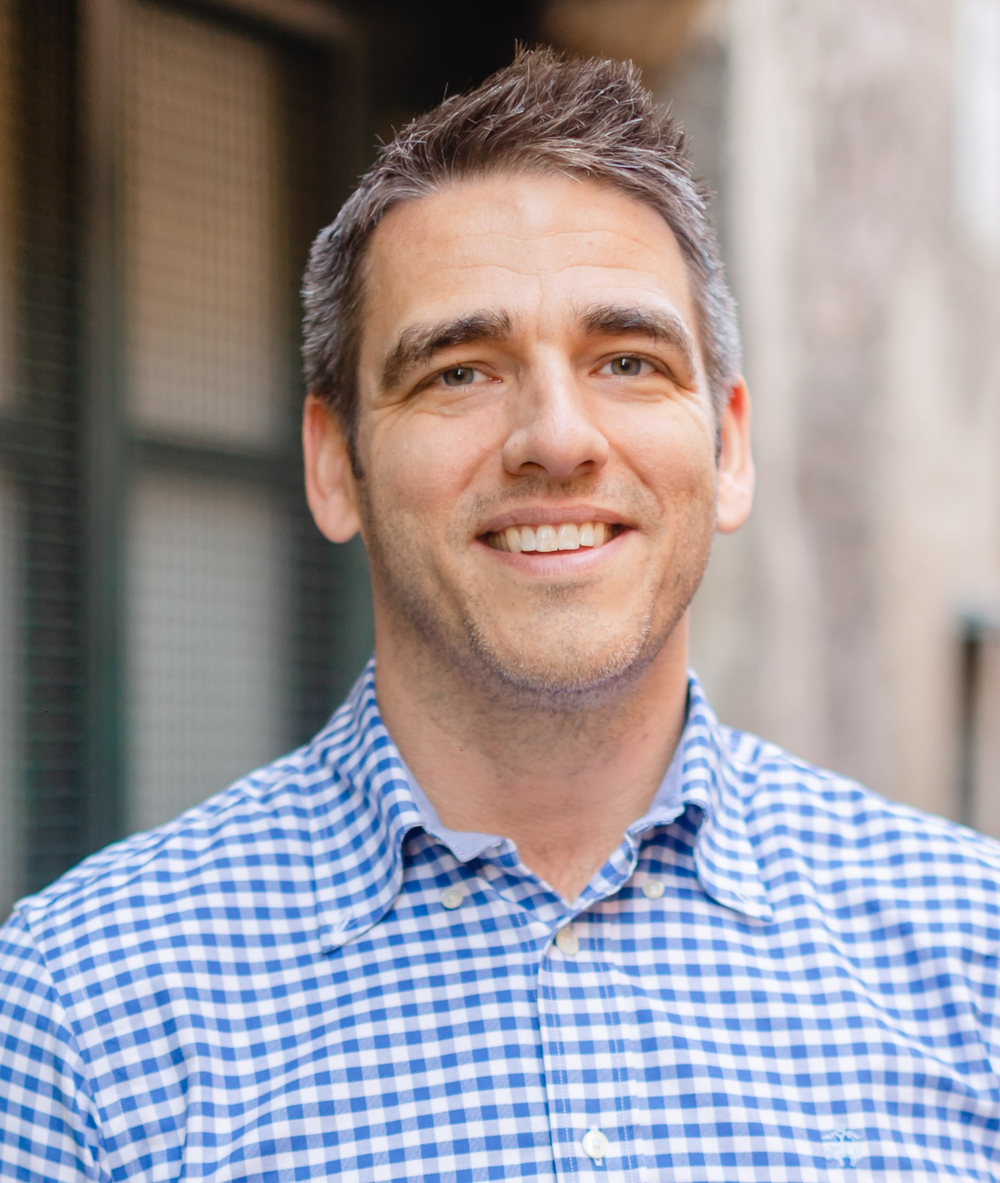
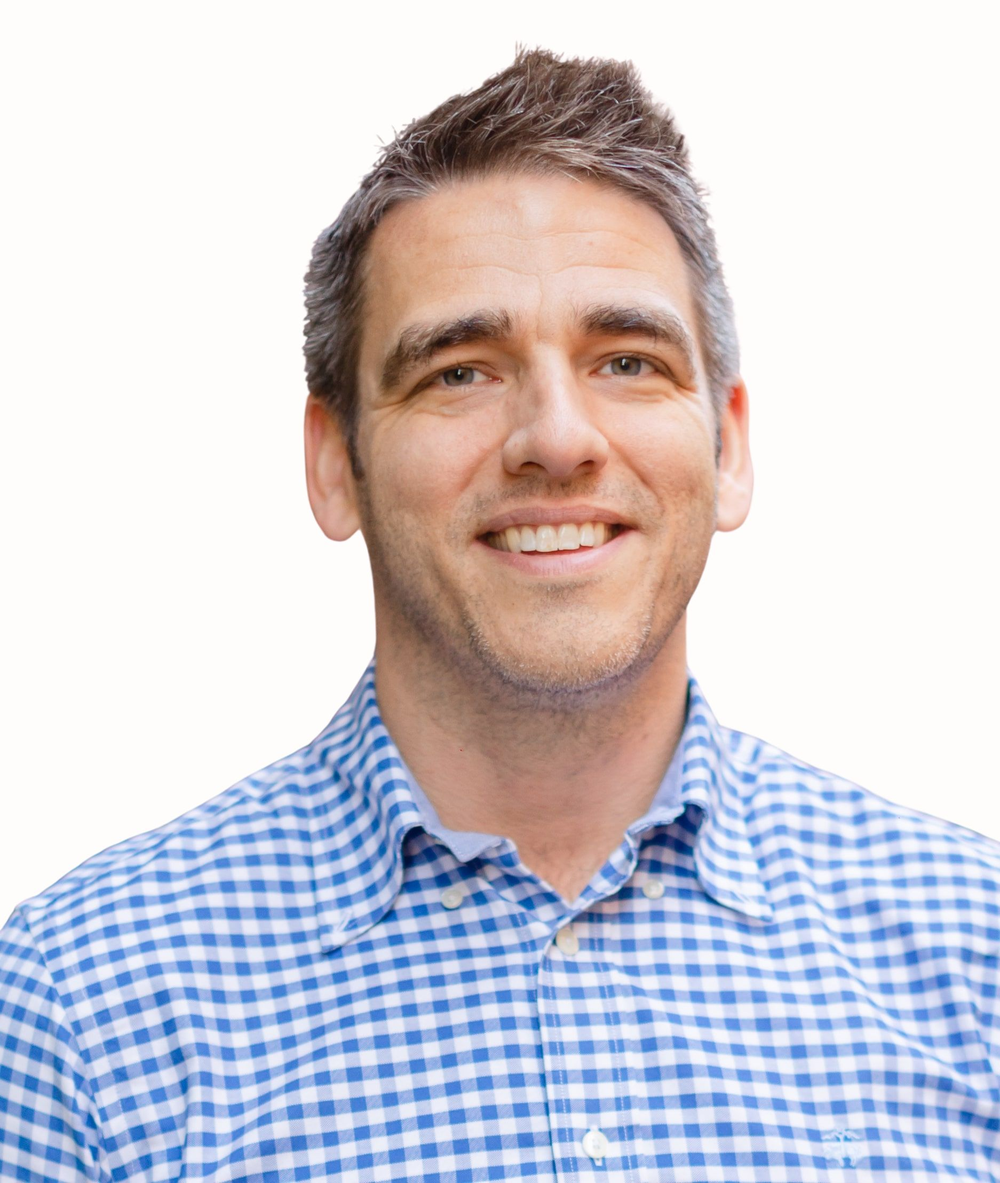
updated text and photo

diff --git a/index.html b/index.html
@@ -44,11 +44,11 @@
                     Piazza di San Cosimato, 40 · Rome, 00153 · (+39) 3349481965 ·
                     <a href="mailto:name@email.com">aaron@a3di.dev</a>
                 </div>
-                <p class="lead mb-3">International development consultant with more than 15 years of experience in
-                    data-related projects within the food security, nutrition, and social protection sectors.
-                    Exceptional in data analytics and capacity transfer to Government and non-technical users. Skilled
-                    at leveraging digital technologies and platforms to help organisations become more efficient and
-                    streamlined in addressing their information collection, management, analysis, and utilisation goals.
+                <p class="lead mb-3">International development consultant with more than 15 years of experience leading
+                    data-related projects within the food security, nutrition, and social protection sectors. Skilled in
+                    all data science steps including data sourcing, processing, exploration, modelling, interpreting and
+                    communications. Adept at leveraging technology to help organisations become more efficient and
+                    streamlined in achieving their data collection, management, analysis, and utilisation goals.
                 </p>
                 <div class="social-icons">
                     <a class="social-icon" href="https://www.linkedin.com/in/aaronbwise/" target="_blank"><i
@@ -74,6 +74,26 @@
                     </div>
                     <!-- <div class="flex-shrink-0 dates">August 2014 - December 2021</div> -->
                 </div>
+
+                <!-- SUB-CLASS-->
+                <div class="d-flex flex-column flex-md-row justify-content-between mb-3">
+                    <div class="flex-grow-1">
+                        <div class="subheading mb-3">Multiple Offices</div>
+                        <ul>
+                            <li>Led analysis of a joint WFP-Ministry of Agriculture national food security survey in
+                                Timor-Leste and developed strategic recommendations in consultation with key
+                                stakeholders for mitigating the impacts of food price inflation and drought.</li>
+                            <li>Implemented necessary updates to the backend Python source code for WFP Pacific's mVAM
+                                pipeline, ensuring continued smooth operations and food security data availability for
+                                WFP and its national government partners in the region.</li>
+                            <li>Coordinated food security analysis for rounds 7 and 8 of a joint WFP-FAO remote food
+                                security assessment in Myanmar, the results of which inform both organisations’ ongoing
+                                development and humanitarian operations.</li>
+                        </ul>
+                    </div>
+                    <div class="flex-shrink-0 dates">07/2022 - 01/2024</div>
+                </div>
+                <!-- END SUB-CLASS-->
 
                 <!-- SUB-CLASS-->
                 <div class="d-flex flex-column flex-md-row justify-content-between mb-3">
